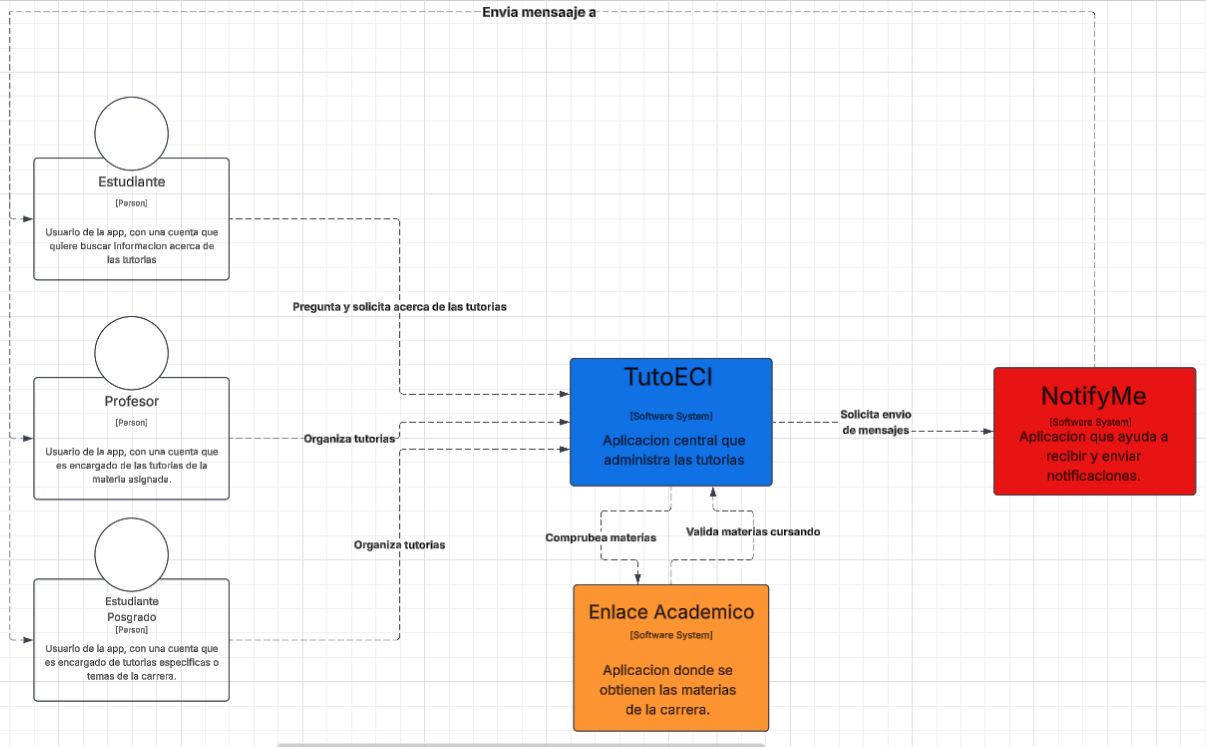
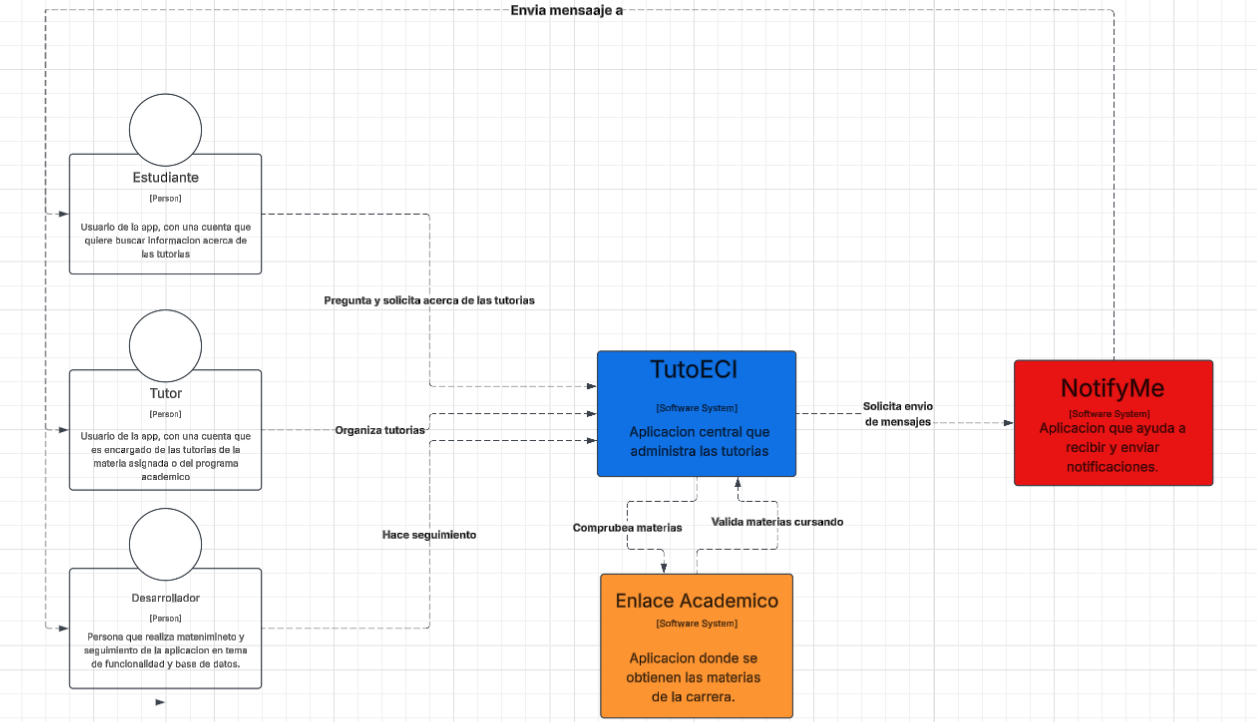
Agregacion de la epica, historia de usuario y tareas, ademas del URL de Jira

diff --git a/README.md b/README.md
@@ -49,6 +49,60 @@ Requerimiento Funcional 2
 | **Poscondiciones** | Se espera como resultado que la notificacion llegue al usuario de la confirmacion de su asignacion a una tutoria. |
 | **Historia de Usuario** | COMO Usuario QUIERO Recibir Notificaciones PARA PODER asegurarme de que mi tutoria fue asignada a mi correspondiente tutor para tomar la tutoria.|
 
+## Desglose de trabajo: Épicas, Historias de Usuario y Tareas
+
+La implementación de los requerimientos identificados de TutoECI se desglosa de la siguiente manera:
+
+### 1. Épica:
+
+| Campo | Descripción |
+|------|-------------|
+| **ID** | SCRUM-5 |
+| **Título** | Recomendar Tutor|
+| **Descripción** | Permitir a TutoECI que recomiende los mejores tutores para la asignatura que selecciono el solicitante. |
+| **Stakeholder** | Solicitantes y Tutores |
+
+### 2. Historias de usuario:
+
+| Campo | Descripción |
+|------|-------------|
+| **ID** | SCRUM-6 |
+| **Título** | Auntenticacion del solicitante para obtener tutores recomendados |
+| **Descripción** | *Como solicitante, quiero obtener recomendaciones de tutores para dar escoger al mejor y disciplinado que pueda ayudarme a entender la materia.* |
+| **Criterios de aceptación** | 1. Dado que el solicitante ingresa a TutoECI con sus credenciales, entonces el sistema le concede acceso y lo redirige a solicitar tutoria.<br>2. Dado que el solicitante ingresa credenciales inválidas, cuando envíe el formulario, entonces el sistema muestra un mensaje de error sin conceder acceso.<br>3. Dado que el solicitante deja campos vacíos, cuando intente iniciar sesión, entonces el sistema le indica qué campos son obligatorios. |
+| **Prioridad** | *Alta* |
+| **Estimación** | *5 puntos de historia* |
+
+### Tareas
+
+| Campo | Descripción |
+|------|-------------|
+| **ID** | SCRUM-7 |
+| **Título** | CONECTAR BASE DE DATOS AL SOFTWARE |
+| **ID de la Historia de Uso asociada** | SCRUM-13 |
+| **Descripción** | *Como desarrollador, quiero conectar la base de datos al software , para poder realizar recomendaciones de tutores.*  |
+| **Tareas requisito** | *NINGUNA*|
+
+| Campo | Descripción |
+|------|-------------|
+| **ID** | SCRUM-8 |
+| **Título** | *RECIBIR DATOS*|
+| **ID de la Historia de Uso asociada** | SCRUM-13 |
+| **Descripción** | *Como desarrollador, quiero poder recibir datos, para poder realizar consultas de tutores disponibles en mi base de datos.*  |
+| **Tareas requisito** | *SCRUM-7* |
+
+| Campo | Descripción |
+|------|-------------|
+| **ID** | SCRUM-9 |
+| **Título** | *CONSULTA BASE DE DATOS*|
+| **ID de la Historia de Uso asociada** | SCRUM-13 |
+| **Descripción** | *Como desarrollador, quiero poder realizar consultas de tutores, para poder realizar validaciones de datos para la recomendacion.*  |
+| **Tareas requisito** | *SCRUM-7* |
+
+## Jira
+
+URL de Jira: https://samuelargalle651-178853109245.atlassian.net/jira/software/projects/SCRUM/boards/1/backlog?atlOrigin=eyJpIjoiNWMzNzFkNjM0MjdlNDA2MWFmNTE5NWIyODEyZWY1OWEiLCJwIjoiaiJ9
+
 
 
 
